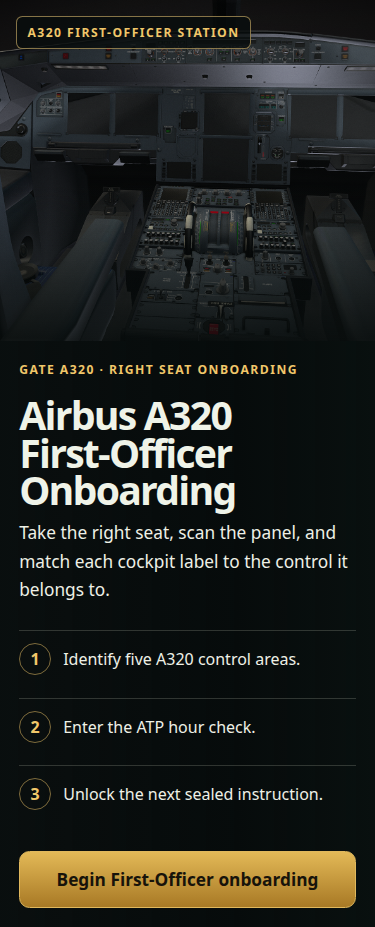
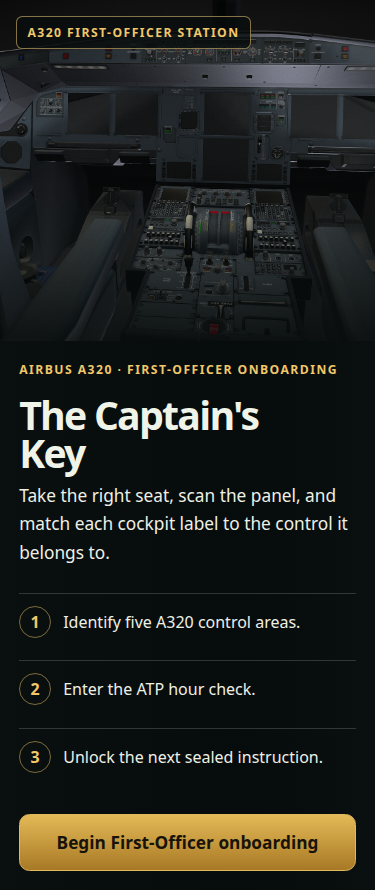
Rename player-facing game title

diff --git a/src/App.tsx b/src/App.tsx
@@ -1,5 +1,6 @@
 import { lazy, Suspense, useEffect, useState } from 'react'
 import { Hud } from './components/Hud'
+import { gameCopy } from './game/config'
 import { clearGameState } from './game/storage'
 import { useGame } from './game/useGame'
 
@@ -33,7 +34,7 @@ export default function App() {
   const skipPrototypeScene = shouldSkipPrototypeScene()
 
   const restart = () => {
-    const confirmed = window.confirm('Restart CockpitEscapeRoom and clear saved progress?')
+    const confirmed = window.confirm(`Restart ${gameCopy.title} and clear saved progress?`)
     if (!confirmed) return
     clearGameState()
     dispatch({ type: 'RESET' })
@@ -49,8 +50,8 @@ export default function App() {
           </div>
 
           <div className="briefing-panel">
-            <p className="briefing-route">Gate A320 · Right seat onboarding</p>
-            <h1 id="game-title">Airbus A320 First-Officer Onboarding</h1>
+            <p className="briefing-route">Airbus A320 · First-Officer onboarding</p>
+            <h1 id="game-title">{gameCopy.title}</h1>
             <p className="lede">
               Take the right seat, scan the panel, and match each cockpit label to the control it belongs to.
             </p>

diff --git a/e2e/smoke.spec.ts b/e2e/smoke.spec.ts
@@ -77,7 +77,7 @@ test('Airbus cockpit integration proof loads the A320 GLB', async ({ page }) => 
 test('Airbus onboarding, locker reveal, and captain completion unlock reward', async ({ page }) => {
   await page.goto('/?skip3d=1')
 
-  await expect(page.getByRole('heading', { name: 'Airbus A320 First-Officer Onboarding' })).toBeVisible()
+  await expect(page.getByRole('heading', { name: "The Captain's Key" })).toBeVisible()
   await page.getByRole('button', { name: 'Begin First-Officer onboarding' }).click()
 
   await page.getByRole('combobox', { name: /Select card for Sidestick/i }).selectOption('SIDESTICK')

diff --git a/index.html b/index.html
@@ -6,9 +6,9 @@
     <meta name="theme-color" content="#111a1a" />
     <meta
       name="description"
-      content="CockpitEscapeRoom — a personalized DC-9 escape-room game prototype."
+      content="The Captain's Key - a personalized cockpit escape-room game prototype."
     />
-    <title>CockpitEscapeRoom</title>
+    <title>The Captain's Key</title>
   </head>
   <body>
     <div id="root"></div>

diff --git a/src/game/config.ts b/src/game/config.ts
@@ -123,7 +123,7 @@ export const dc9LegacyFlow = {
 } as const
 
 export const gameCopy = {
-  title: 'Cockpit Escape Room',
+  title: "The Captain's Key",
   subtitle: 'First-Officer onboarding in Airbus, then the DC-9 legacy reveal.',
   premise:
     'The game is a personalized tribute. Start in a modern Airbus coaching loop, discover the locker story, then unlock Pop T Captain Mode in the DC-9.',

diff --git a/TEST_REPORT.md b/TEST_REPORT.md
@@ -61,3 +61,12 @@ Update this file with actual evidence after every milestone. Do not replace fail
   - `preview-renders/cockpit-pipeline/a320-cockpit-2-browser-integration/opening-1440.png`
   - `preview-renders/cockpit-pipeline/a320-cockpit-2-browser-integration/opening-768.png`
   - `preview-renders/cockpit-pipeline/a320-cockpit-2-browser-integration/opening-375.png`
+
+## 2026-07-04 Player-facing title rename evidence
+
+- `npm run check` - pass after changing the player-facing game title to `The Captain's Key`.
+- `npm run test:e2e -- e2e/smoke.spec.ts` - pass; 3 Chromium smoke tests passed after updating the opening heading expectation.
+- Playwright screenshots refreshed and reviewed at 1440, 768, and 375 px with the new title:
+  - `preview-renders/cockpit-pipeline/a320-cockpit-2-browser-integration/opening-1440.png`
+  - `preview-renders/cockpit-pipeline/a320-cockpit-2-browser-integration/opening-768.png`
+  - `preview-renders/cockpit-pipeline/a320-cockpit-2-browser-integration/opening-375.png`
